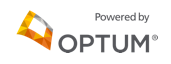
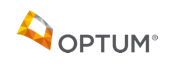
* updates

Changed region(s): [[0.5556, 0.1875, 0.8772, 0.375]]

diff --git a/views/main-page/main.html b/views/main-page/main.html
@@ -4,9 +4,9 @@
         <div class="container-fluid">
             <div class="col-md-9">
                 <a class="navbar-brand" href="#">
-                    <img src="/assets/images/logo.png"/>
+                    <img src="/assets/images/optum.png"/>    
                 </a>
-                <img src="/assets/images/optum.png"/>
+                    <h3 class="navbar-brand">PACS – BigData Way</h3>
             </div>
             <div class="col-md-3 text-md-right search-btn">
                 <button class="btn btn-lg btn-success mt10" href="#" role="button" data-toggle="modal" data-target="#mySearch">
@@ -29,27 +29,27 @@
 
     <div class="container-fluid">
         <div class="row">
-            <div class="col-md-12 results">
-                <h2 class="lead" ng-if="mainCtrl.resultsList.length > 0">
+            <div class="col-md-12 results mb10">
+                <h2 class="lead" ng-if="mainCtrl.isLookUp">
                     <strong class="text-danger">{{ mainCtrl.totalHits }}</strong> matching records found <strong class="text-danger">{{ mainCtrl.queryString }}</strong>
                 </h2>
             </div>
         </div>
         <div class="row">
-            <div class="col-md-3">
+            <div class="col-md-2">
                 <dl ng-repeat="result in mainCtrl.resultsList track by $index">
                     <dt><a href="" ng-click="mainCtrl.displayData(result)">{{ result.PatientName }}</a></dt>
                     <dd>{{ result.StudyDescription }}</dd>
                 </dl>
             </div>
-            <div class="col-md-6 text-lg-center">
+            <div class="col-md-7 text-lg-center">
                  <div oncontextmenu="return false" class='disable-selection noIbar' unselectable='on' onselectstart='return false;' onmousedown='return false;'>
-                    <div id="dicomImage" style="width:750px;height:650px;top:0px;left:0px; position:absolute">
+                    <div id="dicomImage" class="dicomImage">
                 </div>
             </div>
             </div>
             <div class="col-md-3 sidebar-rt">
-                <table class="table table-xs table-bordered">
+                <table class="table table-sm table-bordered">
                     <thead class="thead-default">
                     <tr>
                         <th colspan="2">DICOM Tags</th>
@@ -148,28 +148,28 @@
                                     <label for="" class="col-md-4 form-control-label">Patient Name</label>
                                     
                                     <div class="col-md-8">
-                                        <input type="text" class="form-control" id="" placeholder="Eve" ng-model="mainCtrl.query.PatientName">
+                                        <input type="text" class="form-control" id="" ng-model="mainCtrl.query.PatientName">
                                     </div>
                                 </div>
                                 <div class="form-group row">
                                     <label for="" class="col-md-4 form-control-label">Patient ID</label>
 
                                     <div class="col-md-8">
-                                        <input type="text" class="form-control" id="" placeholder="000-000-001" ng-model="mainCtrl.query.PatientID">
+                                        <input type="text" class="form-control" id="" ng-model="mainCtrl.query.PatientID">
                                     </div>
                                 </div>
                                 <div class="form-group row">
                                     <label for="" class="col-md-4 form-control-label">Patient Birthday</label>
 
                                     <div class="col-md-8">
-                                        <input type="text" class="form-control" id="" placeholder="1-January-2005" ng-model="mainCtrl.query.PatientBirthDate">
+                                        <input type="text" class="form-control" id="" ng-model="mainCtrl.query.PatientBirthDate">
                                     </div>
                                 </div>
                                 <div class="form-group row">
                                     <label for="" class="col-md-4 form-control-label">Patient Gender</label>
 
                                     <div class="col-md-8">
-                                        <input type="text" class="form-control" id="" placeholder="F" ng-model="mainCtrl.query.PatientSex">
+                                        <input type="text" class="form-control" id="" ng-model="mainCtrl.query.PatientSex">
                                     </div>
                                 </div>
                             </div>
@@ -178,14 +178,14 @@
                                     <label for="" class="col-md-4 form-control-label">Patient Age</label>
 
                                     <div class="col-md-8">
-                                        <input type="text" class="form-control" id="" placeholder="Age">
+                                        <input type="text" class="form-control" id="">
                                     </div>
                                 </div>
                                 <div class="form-group row">
                                     <label for="" class="col-md-4 form-control-label">Patient Weight</label>
 
                                     <div class="col-md-8">
-                                        <input type="text" class="form-control" id="" placeholder="Weight">
+                                        <input type="text" class="form-control" id="">
                                     </div>
                                 </div>
                                 <div class="form-group row">
@@ -204,21 +204,21 @@
                                     <label for="" class="col-md-4 form-control-label">Study Date</label>
 
                                     <div class="col-md-8">
-                                        <input type="text" class="form-control" id="" placeholder="Study Date">
+                                        <input type="text" class="form-control" id="">
                                     </div>
                                 </div>
                                 <div class="form-group row">
                                     <label for="" class="col-md-4 form-control-label">Study Time</label>
 
                                     <div class="col-md-8">
-                                        <input type="text" class="form-control" id="" placeholder="Study Time" ng-model="mainCtrl.query.StudyTime">
+                                        <input type="text" class="form-control" id="" ng-model="mainCtrl.query.StudyTime">
                                     </div>
                                 </div>
                                 <div class="form-group row">
                                     <label for="" class="col-md-4 form-control-label">Study ID</label>
 
                                     <div class="col-md-8">
-                                        <input type="text" class="form-control" id="" placeholder="1" ng-model="mainCtrl.query.StudyID">
+                                        <input type="text" class="form-control" id="" ng-model="mainCtrl.query.StudyID">
                                     </div>
                                 </div>
 
@@ -228,15 +228,14 @@
                                     <label for="" class="col-md-4 form-control-label">Study Modality</label>
 
                                     <div class="col-md-8">
-                                        <input type="text" class="form-control" id="" placeholder="CT">
+                                        <input type="text" class="form-control" id="">
                                     </div>
                                 </div>
                                 <div class="form-group row">
                                     <label for="" class="col-md-4 form-control-label">Study Description</label>
 
                                     <div class="col-md-8">
-                                        <textarea class="form-control" id="" rows="3"
-                                                  placeholder="Visible Human Female" ng-model="mainCtrl.query.StudyDescription"></textarea>
+                                        <textarea class="form-control" id="" rows="3" ng-model="mainCtrl.query.StudyDescription"></textarea>
                                     </div>
                                 </div>
                             </div>
@@ -248,14 +247,14 @@
                                     <label for="" class="col-md-4 form-control-label">Series Date</label>
 
                                     <div class="col-md-8">
-                                        <input type="text" class="form-control" id="" placeholder="1-January-2005">
+                                        <input type="text" class="form-control" id="">
                                     </div>
                                 </div>
                                 <div class="form-group row">
                                     <label for="" class="col-md-4 form-control-label">Series Time</label>
 
                                     <div class="col-md-8">
-                                        <input type="text" class="form-control" id="" placeholder="0:00:00">
+                                        <input type="text" class="form-control" id="">
                                     </div>
                                 </div>
 
@@ -267,7 +266,7 @@
                                     <label for="" class="col-md-4 form-control-label">Series Description</label>
 
                                     <div class="col-md-8">
-                                        <textarea class="form-control" id="" rows="3" placeholder="Resampled to 1mm voxels" ng-model="mainCtrl.query.SeriesDescription"></textarea>
+                                        <textarea class="form-control" id="" rows="3" ng-model="mainCtrl.query.SeriesDescription"></textarea>
                                     </div>
                                 </div>
                             </div>

diff --git a/public/js/bundle.js b/public/js/bundle.js
@@ -35418,33 +35418,44 @@ require('angular').module('dicomApp')
 },{"./main-controller.js":5,"angular":3}],5:[function(require,module,exports){
 function MainController(searchFactory, imageFactory) {
     var mc = this;
-    // Holds no. of results
-    mc.totalHits = 0;
     // Contains list of objects
     mc.resultsList = [];
     // Contains fields to populate tags
     mc.patient = {};
-    mc.queryString = '';
+    // Holds no. of results
+    mc.totalHits = 0;
+    mc.isLookUp = false;
     mc.query = {};
     /**
      * Modal search button function that calls the service
      * @param {Object} query - fields to look up in ES 
      */
-    mc.searchBtn = function(query) {
-        searchFactory.getData(query).then(function(res) {
-            
-            mc.totalHits = res.data.length;
-            
-            buildList(res.data);
+    mc.searchBtn = function (query) {
+
+        mc.isLookUp = true;
+
+        searchFactory.getData(query).then(function (res) {
+
+            if (res.data.message) {
+                clearResults();
+                $('#dicomImage').hide();
+            } else {
+                mc.resultsList = [];
+                mc.totalHits = res.data.length;
+                buildList(res.data);
+            }
             // reset fields
             mc.query = {};
+            // close modal
+            $('#mySearch').modal('hide');
         });
+
     };
     /**
      * Displays the image and populates the DICOM tags
      * @param {Object} data - selected patient record to be displayed
      */
-    mc.displayData = function(data) {
+    mc.displayData = function (data) {
         mc.patient = data;
         imageFactory.loadImage(data.HDFSfilePath);
     };
@@ -35453,11 +35464,17 @@ function MainController(searchFactory, imageFactory) {
      * @param {Array} results - array of objects
      */
     function buildList(results) {
-        angular.forEach(results, function(data) {
+        angular.forEach(results, function (data) {
             mc.resultsList.push(data._source);
         });
     }
-    
+
+    function clearResults() {
+        mc.resultsList = [];
+        mc.totalHits = 0;
+        mc.patient = {};
+    }
+
 }
 
 module.exports = MainController;

diff --git a/public/js/controllers/main-controller.js b/public/js/controllers/main-controller.js
@@ -1,32 +1,43 @@
 function MainController(searchFactory, imageFactory) {
     var mc = this;
-    // Holds no. of results
-    mc.totalHits = 0;
     // Contains list of objects
     mc.resultsList = [];
     // Contains fields to populate tags
     mc.patient = {};
-    mc.queryString = '';
+    // Holds no. of results
+    mc.totalHits = 0;
+    mc.isLookUp = false;
     mc.query = {};
     /**
      * Modal search button function that calls the service
      * @param {Object} query - fields to look up in ES 
      */
-    mc.searchBtn = function(query) {
-        searchFactory.getData(query).then(function(res) {
-            
-            mc.totalHits = res.data.length;
-            
-            buildList(res.data);
+    mc.searchBtn = function (query) {
+
+        mc.isLookUp = true;
+
+        searchFactory.getData(query).then(function (res) {
+
+            if (res.data.message) {
+                clearResults();
+                $('#dicomImage').hide();
+            } else {
+                mc.resultsList = [];
+                mc.totalHits = res.data.length;
+                buildList(res.data);
+            }
             // reset fields
             mc.query = {};
+            // close modal
+            $('#mySearch').modal('hide');
         });
+
     };
     /**
      * Displays the image and populates the DICOM tags
      * @param {Object} data - selected patient record to be displayed
      */
-    mc.displayData = function(data) {
+    mc.displayData = function (data) {
         mc.patient = data;
         imageFactory.loadImage(data.HDFSfilePath);
     };
@@ -35,11 +46,17 @@ function MainController(searchFactory, imageFactory) {
      * @param {Array} results - array of objects
      */
     function buildList(results) {
-        angular.forEach(results, function(data) {
+        angular.forEach(results, function (data) {
             mc.resultsList.push(data._source);
         });
     }
-    
+
+    function clearResults() {
+        mc.resultsList = [];
+        mc.totalHits = 0;
+        mc.patient = {};
+    }
+
 }
 
 module.exports = MainController;

diff --git a/public/assets/css/style.css b/public/assets/css/style.css
@@ -316,8 +316,10 @@ body {
     color: #a4a4a4;
 }
 
-.results { padding-left: 15px; border-bottom: 1px solid #ccc; }
+.results { padding-left: 15px; border-bottom: 1px solid #ccc; height: 32px; }
 .results  h2.lead { font: normal normal 1.125em "Roboto",Arial,Verdana,sans-serif; color: #2a3644; margin: 0; padding-bottom: 10px; }
+
+.dicomImage {width:100%;height:780px;}
 
 /********** 18. MEDIA QUERIES **********/
 /***************************************/
